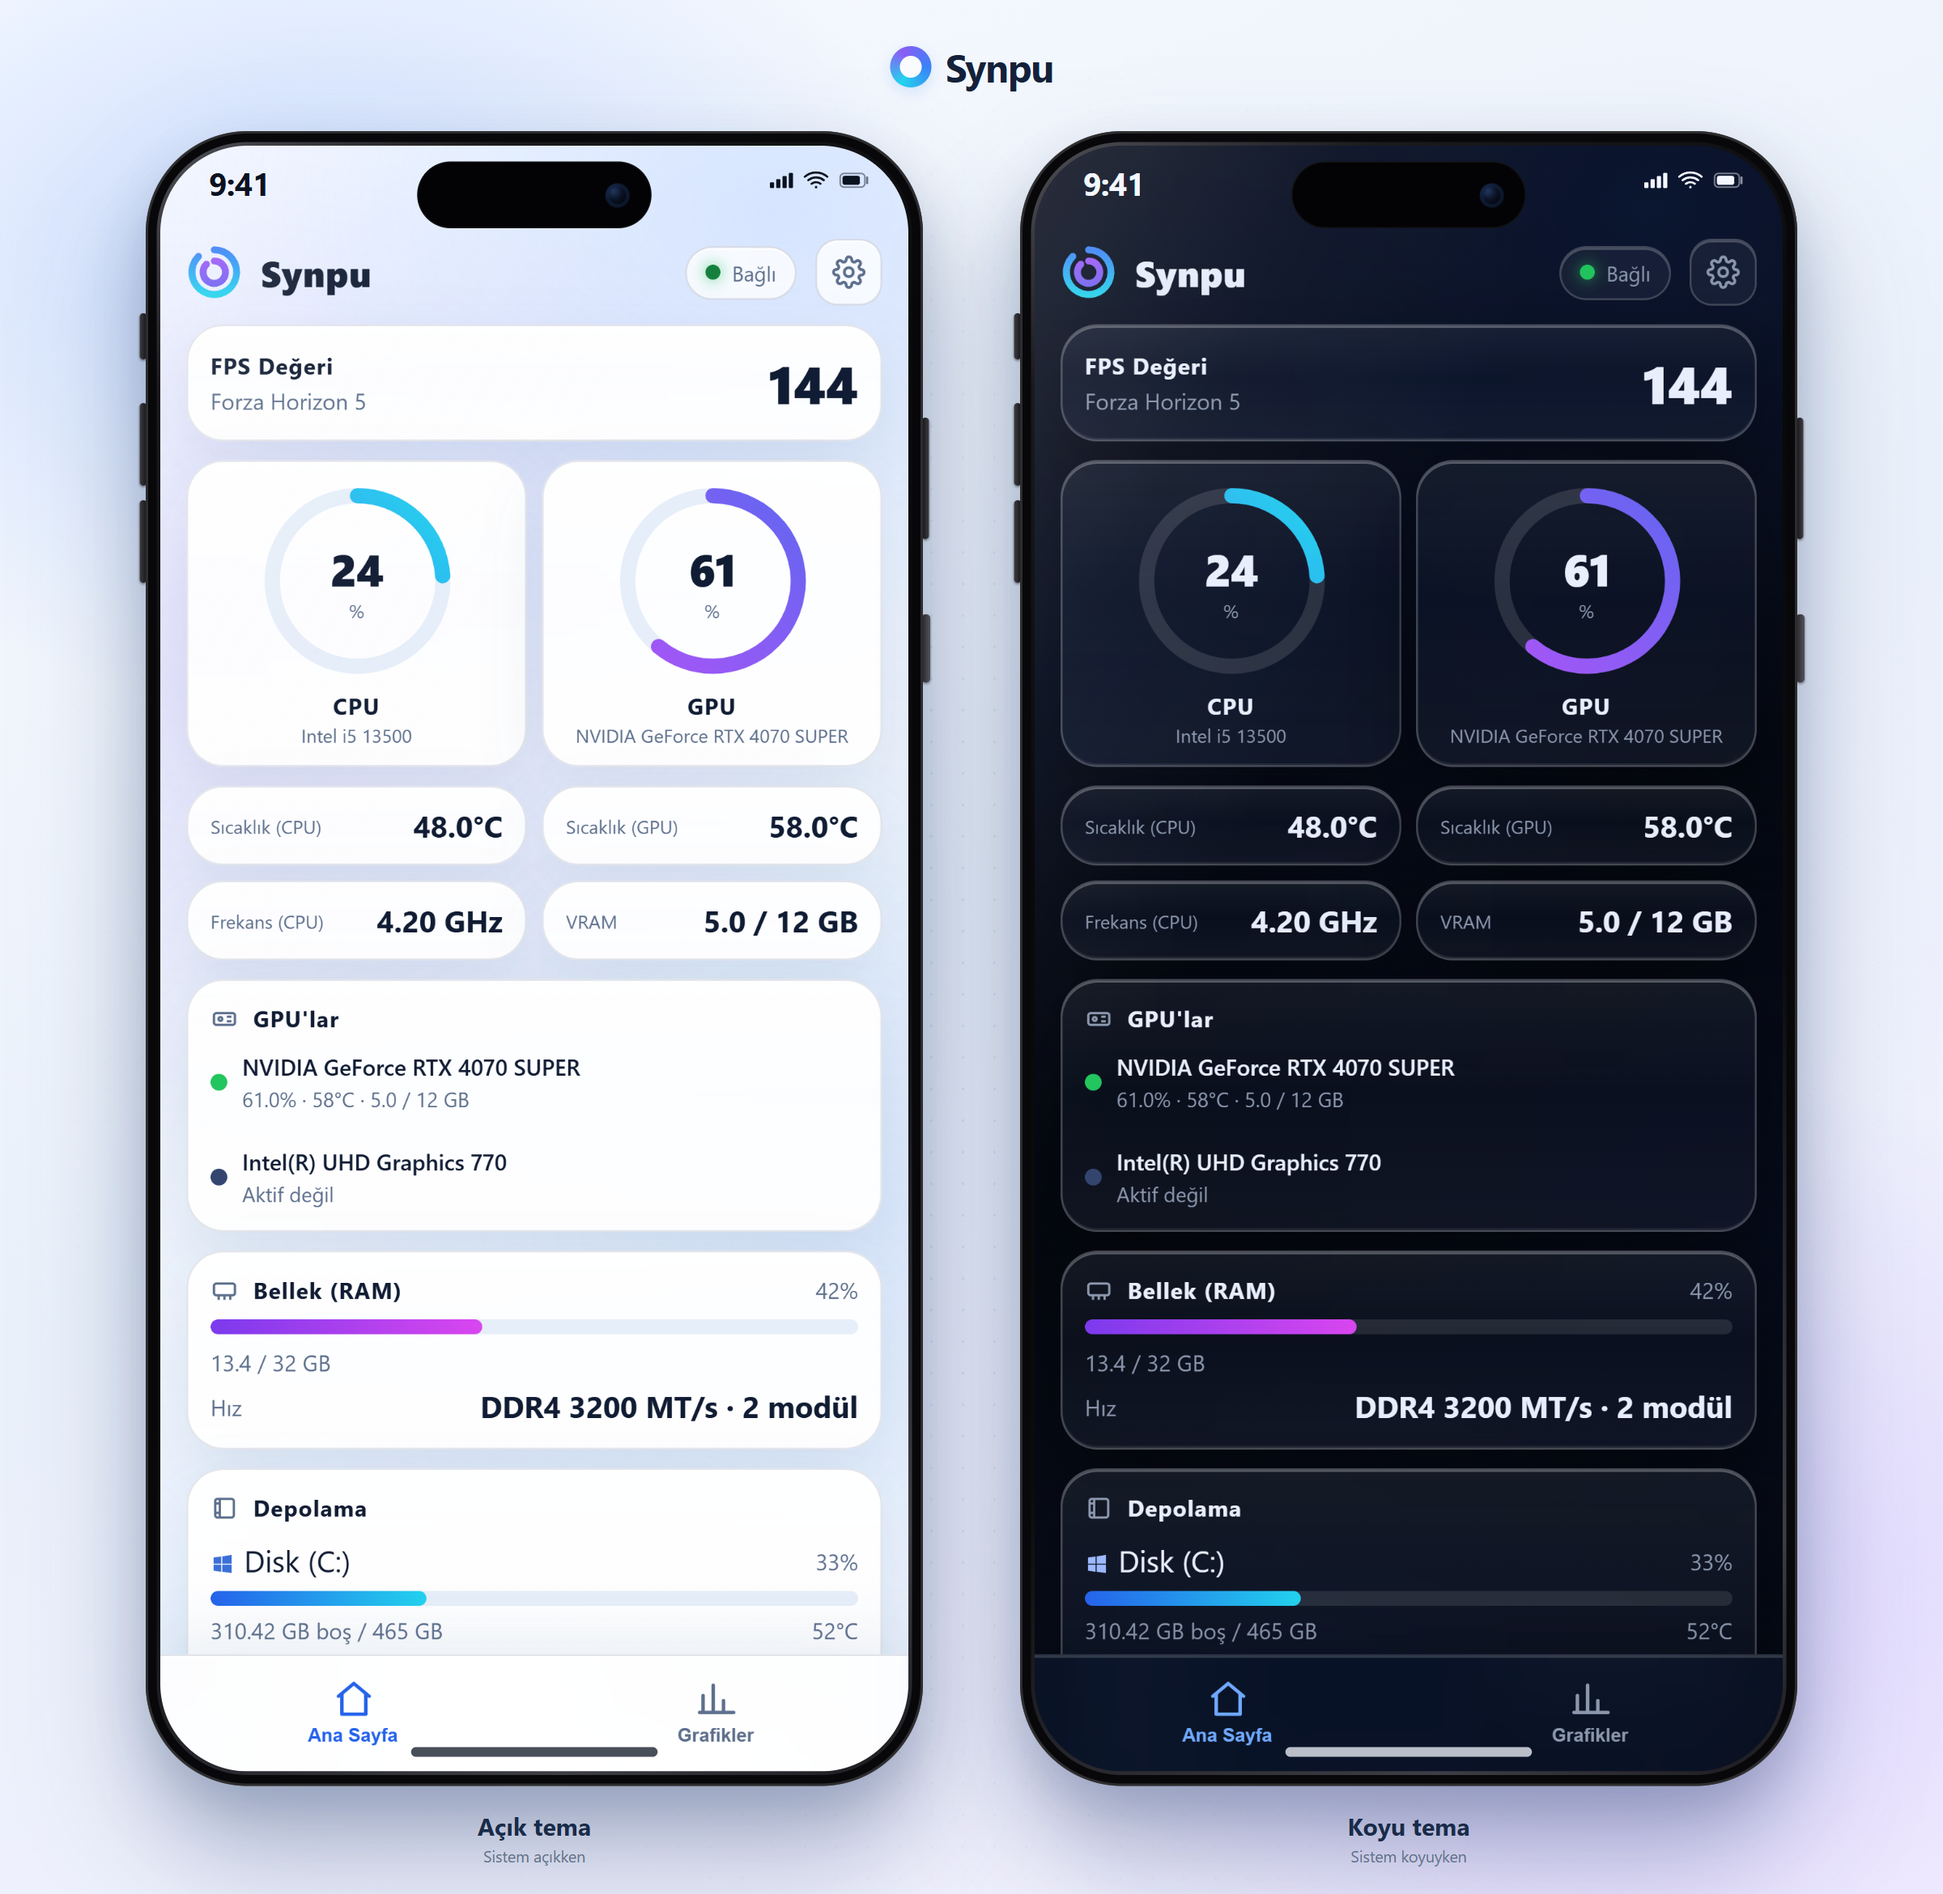
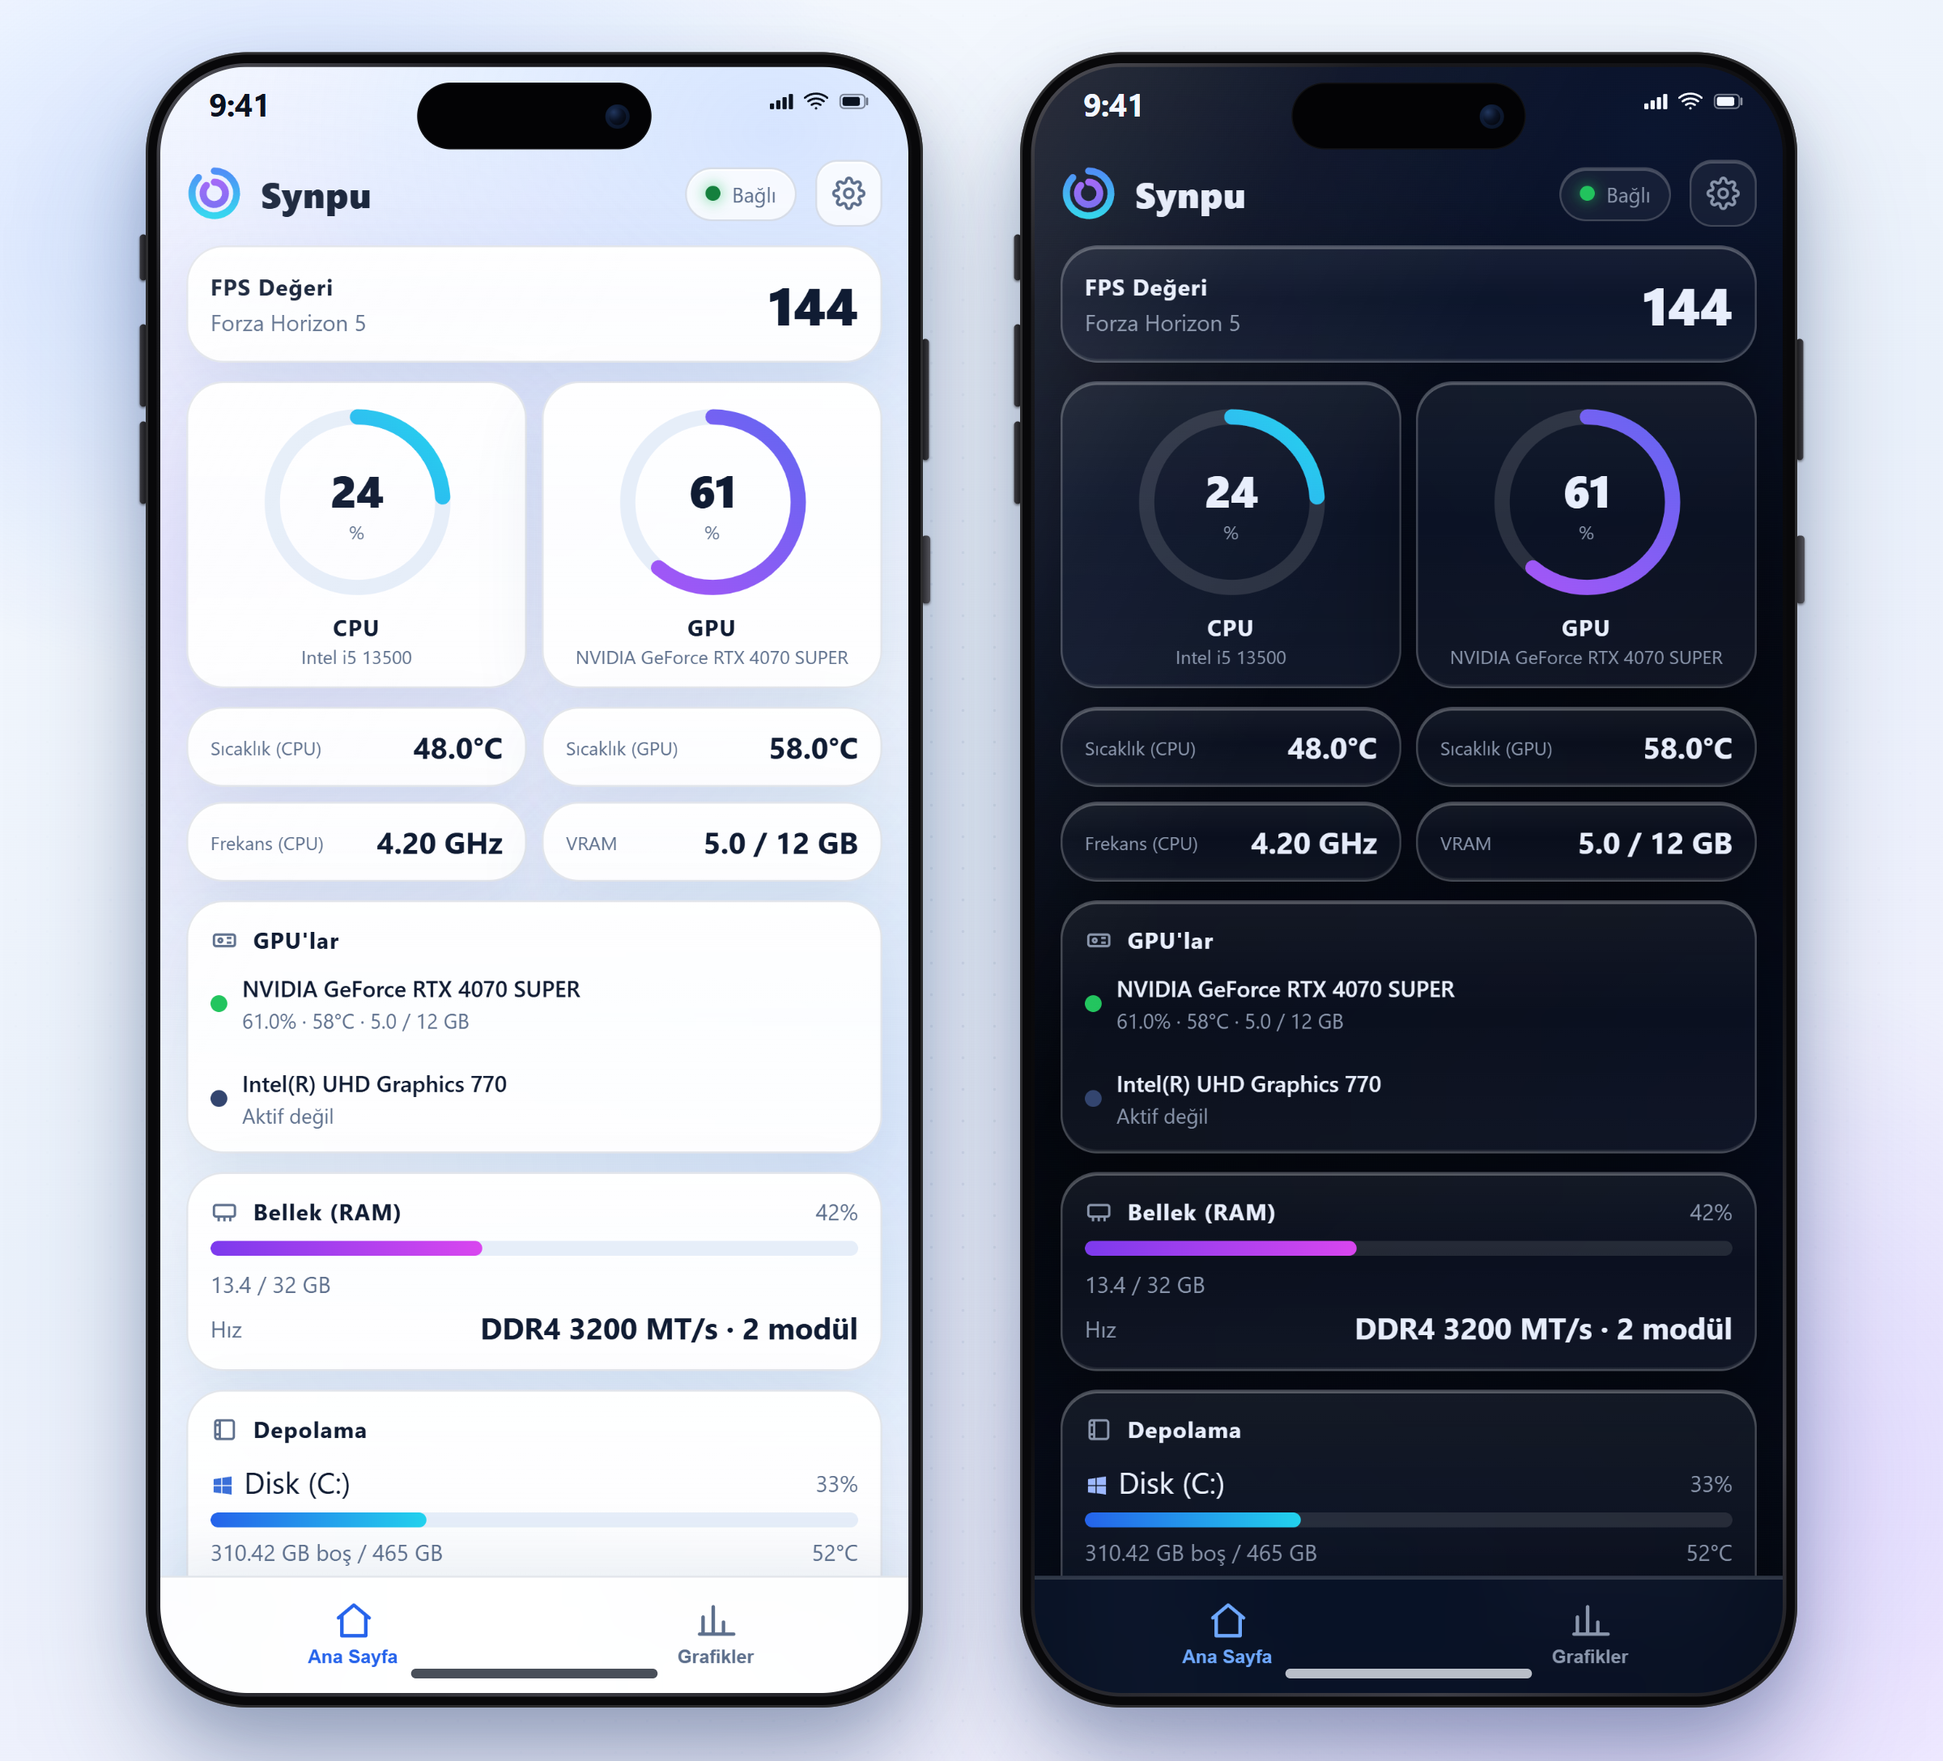
docs: remove labels from two-phone mockup

Changed region(s): [[0.0625, 0.0308, 0.9375, 0.5853], [0.0625, 0.6161, 0.9375, 1.0]]

diff --git a/README.md b/README.md
@@ -1,7 +1,7 @@
 # Synpu
 
 <p align="center">
-  <img src="assets/synpu-iphone17.png" alt="Synpu iPhone 17 mockup — açık ve koyu tema" width="900">
+  <img src="assets/synpu-iphone17.png" alt="Synpu iPhone 17 mockup" width="900">
 </p>
 
 PC'nin canlı sistem istatistiklerini (CPU/GPU kullanımı ve sıcaklığı, RAM, diskler, ağ, fanlar, oyun FPS) telefonundan takip et. Synpu PC'de arka planda çalışır; aynı Wi-Fi ağındaki telefon tarayıcısından `http://<PC-IP>:8787` adresine bağlanırsın. Kurulum ve hesap gerekmez; veriler yerel ağda kalır. Arayüz cihazın sistem temasına uyar: açık sistemde açık, koyu sistemde koyu görünür.
